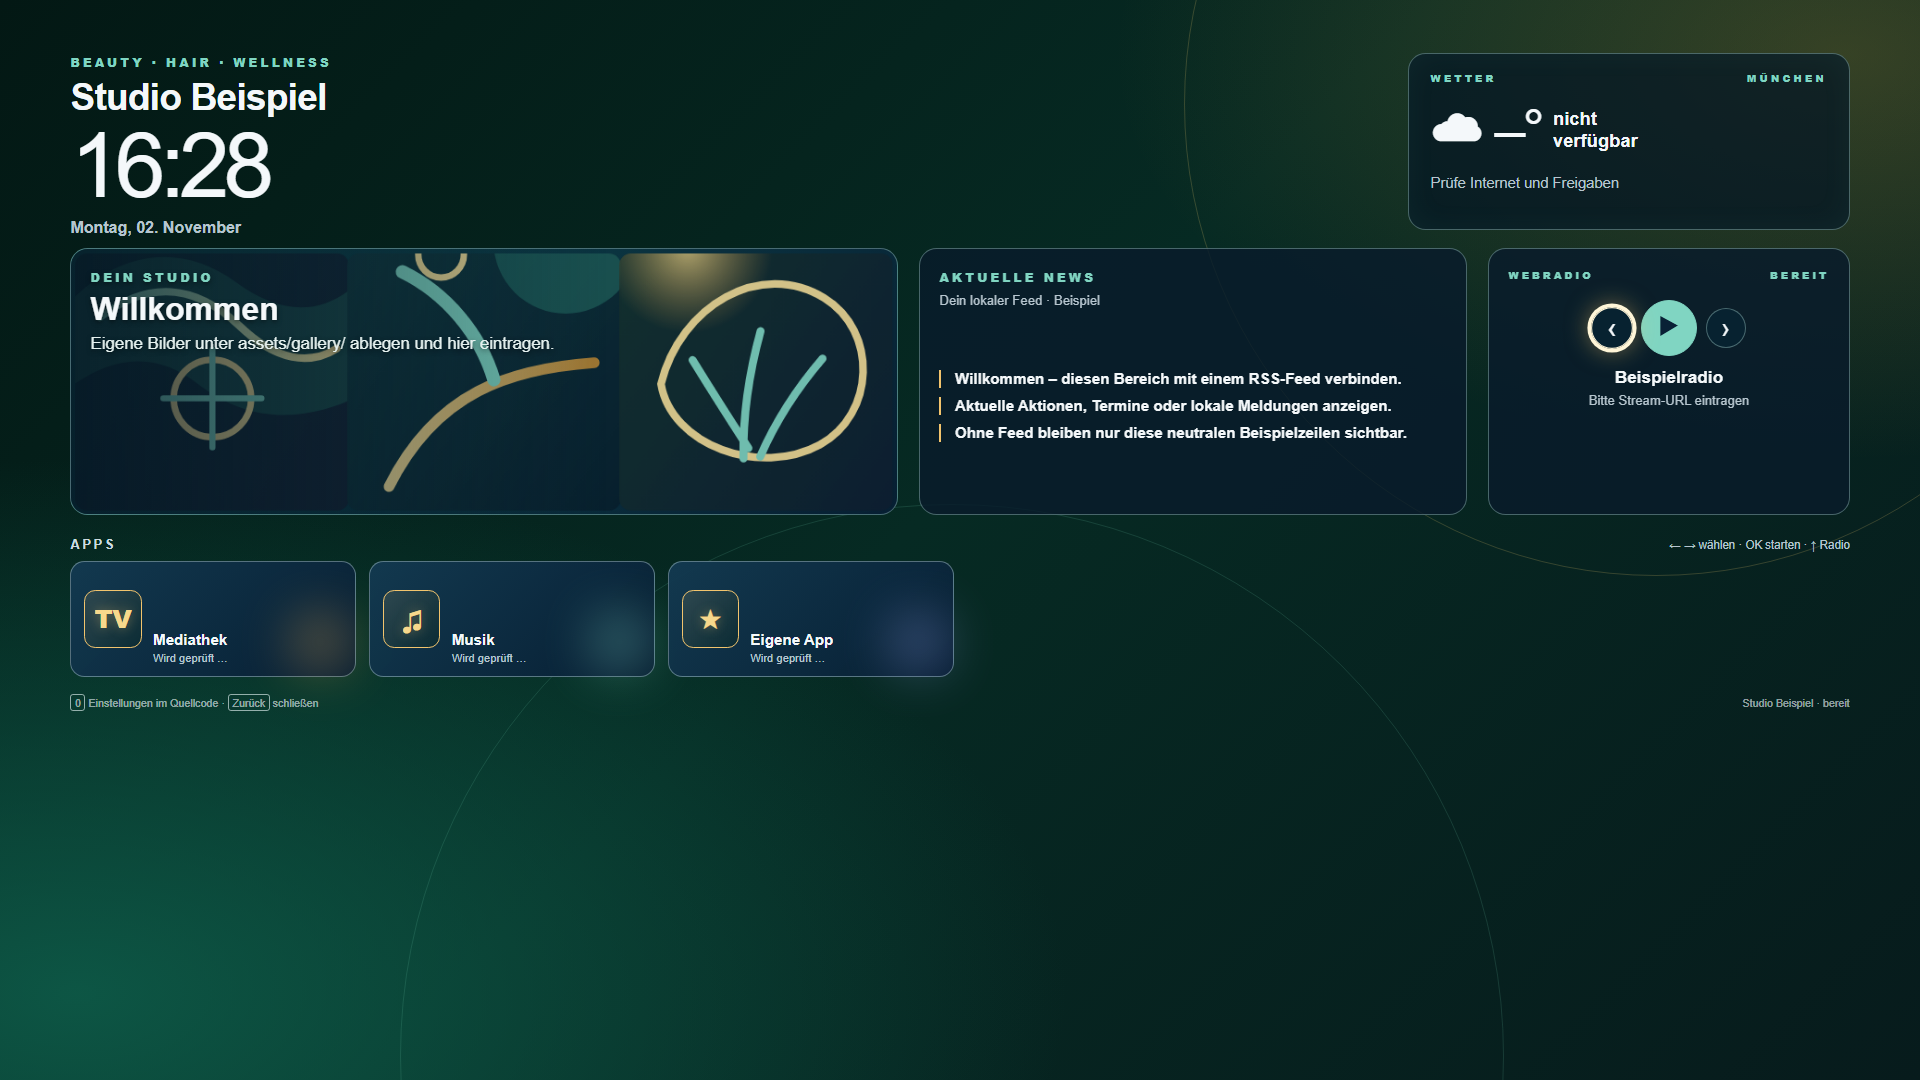
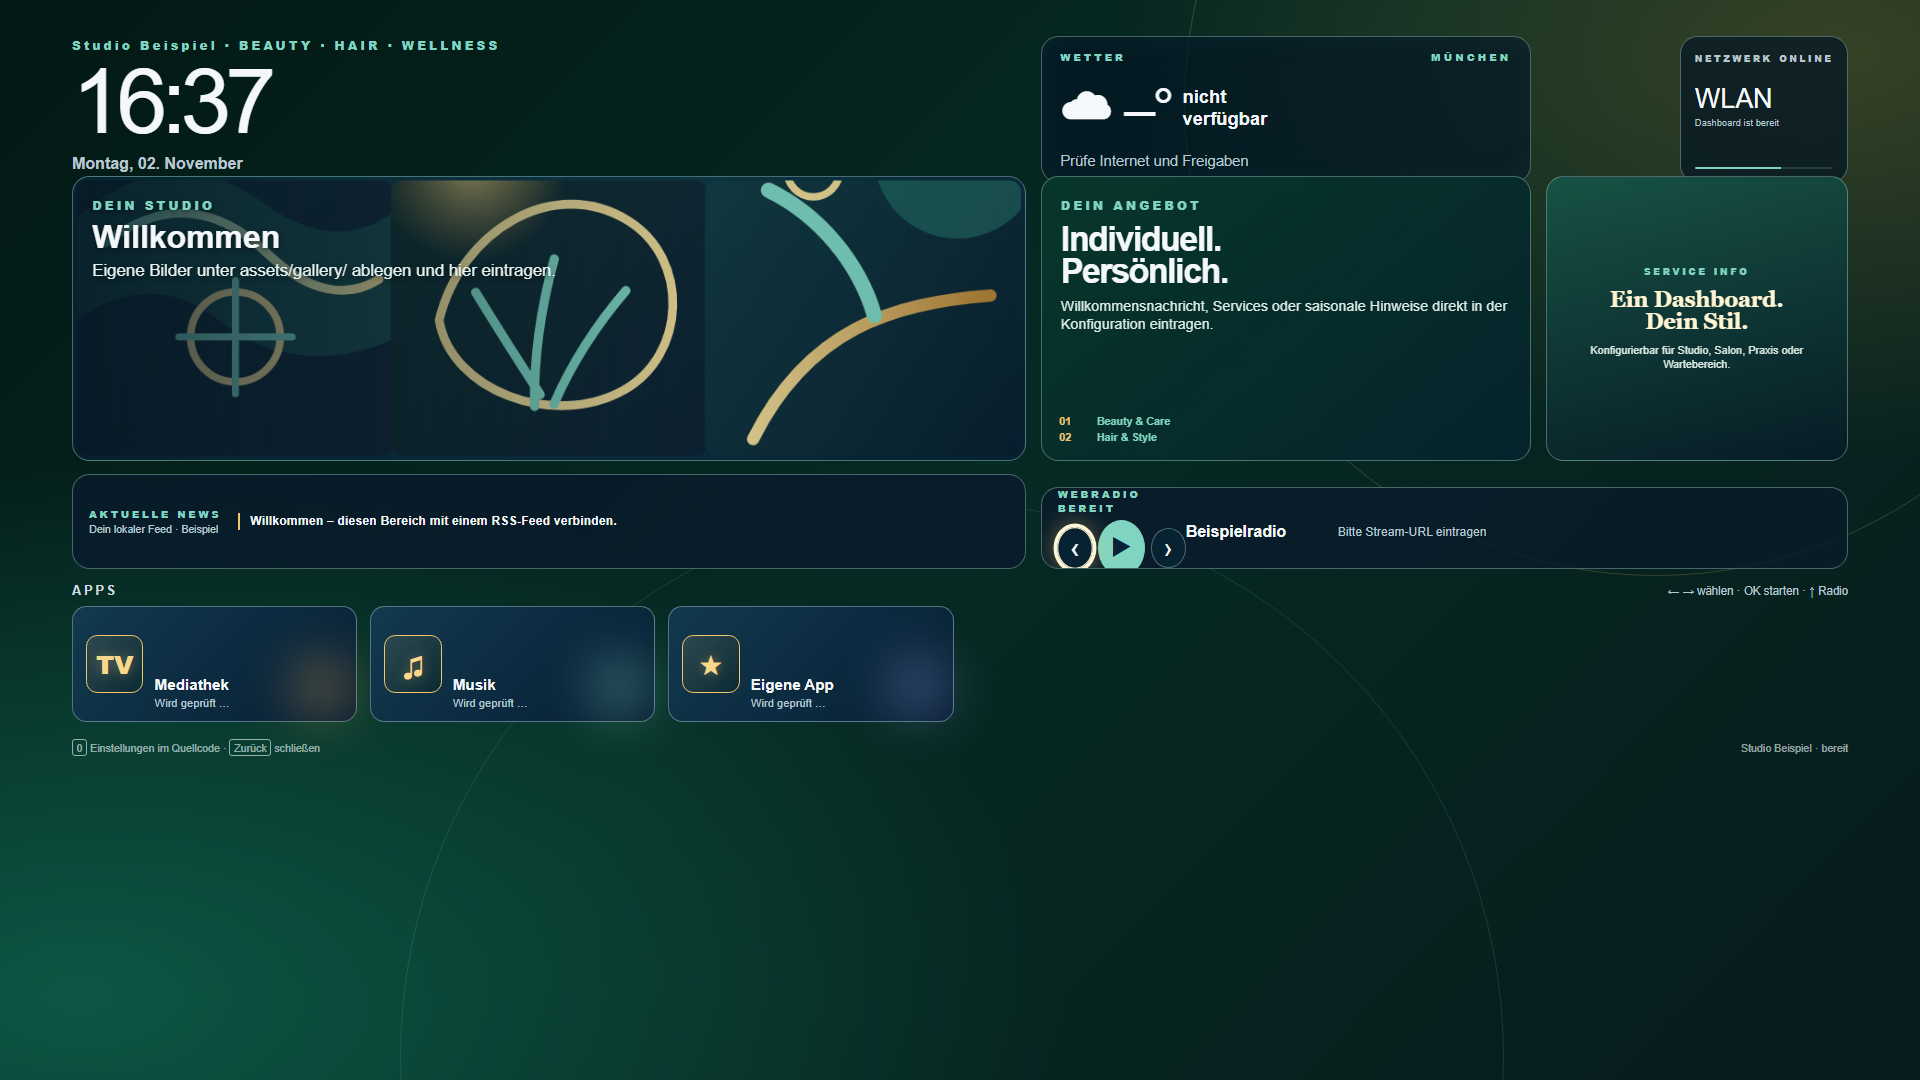
Align demo preview with dashboard composition

diff --git a/css/dashboard.css b/css/dashboard.css
@@ -4,28 +4,30 @@ html, body { width: 100%; height: 100%; margin: 0; overflow: hidden; }
 body { background: #06111d; color: var(--ink); font-family: Arial, Helvetica, sans-serif; }
 body[data-theme="golden-night"] { background: #06110f; }
 button { color: inherit; font: inherit; }
-.dashboard { position: relative; width: 120rem; min-height: 67.5rem; padding: 3.3rem 4.4rem 2rem; overflow: hidden; background: radial-gradient(circle at 15% 0%, #174e61 0, transparent 31%), linear-gradient(135deg, #081a2c 0%, #071d31 54%, #102e39 100%); }
+.dashboard { position: relative; width: 120rem; min-height: 67.5rem; padding: 2.25rem 4.5rem 1.7rem; overflow: hidden; background: radial-gradient(circle at 15% 0%, #174e61 0, transparent 31%), linear-gradient(135deg, #081a2c 0%, #071d31 54%, #102e39 100%); }
 body[data-theme="golden-night"] .dashboard { background: radial-gradient(ellipse at 4% 92%, rgba(15, 98, 78, .8) 0, transparent 38%), radial-gradient(ellipse at 96% 5%, rgba(191, 146, 49, .26) 0, transparent 28%), linear-gradient(135deg, #031814 0%, #062a23 48%, #071b1c 100%); }
 .background-orb { position: absolute; border: .08rem solid rgba(128, 213, 194, .18); border-radius: 50%; opacity: .72; pointer-events: none; }
 .background-orb--one { top: -23rem; right: -13rem; width: 59rem; height: 59rem; }
 .background-orb--two { bottom: -33rem; left: 25rem; width: 69rem; height: 69rem; border-color: rgba(242, 196, 109, .12); }
 body[data-theme="golden-night"] .background-orb--one { border-color: rgba(244, 205, 111, .28); }
 body[data-theme="golden-night"] .background-orb--two { border-color: rgba(114, 208, 178, .22); }
-.hero, .overview, .launch-section, footer { position: relative; z-index: 1; }
-.hero { display: flex; min-height: 12.2rem; align-items: flex-start; justify-content: space-between; }
+.hero, .showcase, .news-radio-row, .launch-section, footer { position: relative; z-index: 1; }
+.hero { display: flex; height: 8.72rem; align-items: flex-start; justify-content: space-between; }
 .eyebrow { margin: 0; color: var(--accent); font-size: .78rem; font-weight: 800; letter-spacing: .18rem; }
-h1 { margin: .36rem 0 0; font-size: 2.3rem; font-weight: 700; letter-spacing: -.04rem; }
+.brand-line { margin: 0; color: var(--accent); font-size: .78rem; font-weight: 800; letter-spacing: .18rem; }
 .clock { margin: .55rem 0 0; font-size: 5.7rem; font-weight: 300; letter-spacing: -.38rem; line-height: .85; }
 .date { margin: .9rem 0 0; color: var(--muted); font-size: 1rem; font-weight: 600; }
-.weather-card { width: 27.6rem; min-height: 11.1rem; padding: 1.1rem 1.35rem; border: .08rem solid var(--line); border-radius: 1.1rem; background: rgba(4, 22, 36, .72); box-shadow: inset 0 0 2rem rgba(116, 220, 201, .05); }
+.status-strip { display: grid; width: 45.45%; grid-template-columns: .73fr .18fr .25fr; align-items: stretch; gap: .9rem; }
+.weather-card { width: auto; min-height: 8.08rem; padding: .82rem 1.15rem; border: .08rem solid var(--line); border-radius: 1.1rem; background: rgba(4, 22, 36, .72); box-shadow: inset 0 0 2rem rgba(116, 220, 201, .05); }
 .weather-card .eyebrow { display: flex; justify-content: space-between; font-size: .65rem; }
 .weather-main { display: flex; align-items: center; gap: .7rem; margin-top: .45rem; }
 .weather-icon { width: 3.3rem; font-size: 3.5rem; text-align: center; }
 .weather-main strong { font-size: 3.5rem; font-weight: 400; letter-spacing: -.2rem; }
 .weather-main span:last-child { max-width: 8rem; color: var(--ink); font-size: 1.15rem; font-weight: 700; }
 .weather-card > p:last-child { margin: .5rem 0 0; color: var(--muted); font-size: .92rem; }
-.overview { display: grid; grid-template-columns: 1.42fr .94fr .62fr; gap: 1.35rem; height: 16.7rem; }
-.gallery-card, .news-card, .radio-card { position: relative; overflow: hidden; padding: 1.2rem; border: .08rem solid var(--line); border-radius: 1.1rem; background: var(--panel); }
+.network-card { display: flex; width: auto; grid-column: 3; flex-direction: column; padding: .82rem .85rem; border: .08rem solid var(--line); border-radius: 1.1rem; background: rgba(4, 22, 36, .72); }.network-card .eyebrow { display: flex; justify-content: space-between; font-size: .54rem; }.network-card strong { margin-top: .62rem; font-size: 1.68rem; font-weight: 400; }.network-card p { margin: .14rem 0 .55rem; color: var(--muted); font-size: .59rem; }.network-card i { display: block; width: 100%; height: .14rem; margin-top: auto; border-radius: 1rem; background: linear-gradient(90deg, var(--accent) 62%, rgba(128,213,194,.18) 62%); }
+.showcase { display: grid; grid-template-columns: 1.42fr .73fr .45fr; gap: .9rem; height: 17.85rem; }
+.gallery-card, .service-card, .feature-card, .news-card, .radio-card { position: relative; overflow: hidden; padding: 1.2rem; border: .08rem solid var(--line); border-radius: 1.1rem; background: var(--panel); }
 .gallery-card { background: linear-gradient(135deg, rgba(16, 75, 81, .92), rgba(7, 31, 52, .94)); }
 .gallery-images { position: absolute; inset: .55rem; display: flex; gap: .5rem; }
 .gallery-images img { width: 0; min-width: 0; flex: 1; border-radius: .7rem; object-fit: cover; opacity: .86; animation: gallery-zoom 12s ease-out both; }
@@ -33,13 +35,14 @@ h1 { margin: .36rem 0 0; font-size: 2.3rem; font-weight: 700; letter-spacing: -.
 .gallery-card::after { position: absolute; inset: 0; background: linear-gradient(90deg, rgba(4, 20, 33, .72), transparent 65%); content: ""; pointer-events: none; }
 .gallery-copy { position: relative; z-index: 1; max-width: 65%; text-shadow: 0 .1rem .3rem rgba(0,0,0,.5); }
 .gallery-copy h2 { margin: .45rem 0; font-size: 2rem; line-height: 1; }.gallery-copy p:last-child { margin: 0; color: #e6f2f0; font-size: 1.05rem; line-height: 1.28; }
-.news-card { display: flex; flex-direction: column; }.muted { margin: .4rem 0; color: var(--muted); font-size: .82rem; }
-#news-list { display: flex; height: 100%; flex-direction: column; justify-content: center; gap: .55rem; margin: .2rem 0 0; padding: 0; list-style: none; }
-#news-list li { overflow: hidden; padding-left: .85rem; border-left: .18rem solid var(--accent-warm); font-size: .95rem; font-weight: 650; line-height: 1.2; text-overflow: ellipsis; white-space: nowrap; }
-.radio-card { display: flex; flex-direction: column; align-items: center; text-align: center; }.radio-card .eyebrow { width: 100%; display: flex; justify-content: space-between; font-size: .64rem; }.radio-controls { display: flex; align-items: center; gap: .55rem; margin: 1.1rem 0 .7rem; }
+.service-card { background: linear-gradient(140deg, rgba(7, 55, 43, .97), rgba(6, 35, 45, .94)); }.service-card h2 { margin: .62rem 0; font-size: 2.1rem; line-height: .95; letter-spacing: -.08rem; }.service-card > p:not(.eyebrow) { margin: .2rem 0; color: #dfede8; font-size: .9rem; line-height: 1.25; }.service-card > div { position: absolute; right: 1.1rem; bottom: 1.1rem; left: 1.1rem; display: grid; grid-template-columns: 1.8rem 1fr; gap: .22rem .55rem; color: var(--accent); font-size: .67rem; font-weight: 700; }.service-card > div span:nth-child(odd) { color: var(--accent-warm); }
+.feature-card { display: flex; flex-direction: column; justify-content: center; background: linear-gradient(165deg, rgba(23, 83, 70, .96), rgba(7, 28, 38, .98)); text-align: center; }.feature-card .eyebrow { font-size: .56rem; }.feature-card strong { margin: .65rem 0 .7rem; color: #fff5d3; font-family: Georgia, serif; font-size: 1.35rem; line-height: 1.03; }.feature-card span { color: #d8e8e0; font-size: .68rem; line-height: 1.25; }
+.news-radio-row { display: grid; grid-template-columns: 1.42fr .73fr .45fr; gap: .9rem; height: 5.95rem; margin-top: .8rem; }.news-card { display: grid; grid-column: 1; grid-template-columns: 9.3rem 1fr; align-items: center; padding: .78rem 1rem; }.news-card .eyebrow { align-self: end; font-size: .62rem; }.muted { align-self: start; margin: .1rem 0; color: var(--muted); font-size: .66rem; }
+#news-list { grid-column: 2; grid-row: 1 / span 2; margin: 0; padding: 0; list-style: none; }#news-list li { overflow: hidden; padding-left: .65rem; border-left: .16rem solid var(--accent-warm); font-size: .78rem; font-weight: 650; line-height: 1.35; text-overflow: ellipsis; white-space: nowrap; }#news-list li:not(:first-child) { display: none; }
+.radio-card { display: grid; grid-column: 2 / 4; grid-template-columns: 8rem 9.5rem 1fr; align-items: center; margin-top: .8rem; padding: .75rem 1rem; text-align: left; }.radio-card .eyebrow { grid-column: 1; grid-row: 1; align-self: start; font-size: .62rem; }.radio-controls { grid-column: 1; grid-row: 2; display: flex; align-items: center; gap: .38rem; margin: .35rem 0 0; }
 .round-button { width: 2.5rem; height: 2.5rem; border: .08rem solid var(--line); border-radius: 50%; background: rgba(8, 36, 50, .9); cursor: pointer; font-size: 1.65rem; line-height: 1; }.round-button--main { width: 3.5rem; height: 3.5rem; border-color: var(--accent); background: var(--accent); color: #092136; font-size: 1.55rem; }
-.radio-card strong { font-size: 1.08rem; }.radio-card > span { margin-top: .3rem; color: var(--muted); font-size: .82rem; }.radio-card.is-playing .round-button--main { box-shadow: 0 0 1.3rem rgba(128,213,194,.6); }
-.launch-section { margin-top: 1.35rem; }.section-heading { display: flex; align-items: baseline; justify-content: space-between; margin-bottom: .55rem; }.section-heading h2 { margin: 0; color: #cddce1; font-size: .84rem; letter-spacing: .14rem; }.section-heading p { margin: 0; color: var(--muted); font-size: .72rem; }
+.radio-card strong { grid-column: 2; grid-row: 1 / span 2; font-size: 1rem; }.radio-card > span { grid-column: 3; grid-row: 1 / span 2; color: var(--muted); font-size: .76rem; }.radio-card.is-playing .round-button--main { box-shadow: 0 0 1.3rem rgba(128,213,194,.6); }
+.launch-section { margin-top: .9rem; }.section-heading { display: flex; align-items: baseline; justify-content: space-between; margin-bottom: .45rem; }.section-heading h2 { margin: 0; color: #cddce1; font-size: .84rem; letter-spacing: .14rem; }.section-heading p { margin: 0; color: var(--muted); font-size: .72rem; }
 .tile-grid { display: grid; grid-template-columns: repeat(6, minmax(0, 1fr)); gap: .8rem; }.tile-grid--sources { grid-template-columns: repeat(3, minmax(0, 1fr)); }
 .tile { position: relative; display: flex; min-height: 7.3rem; padding: .8rem; border: .08rem solid rgba(194, 221, 223, .42); border-radius: .9rem; background: linear-gradient(135deg, rgba(19, 58, 81, .96), rgba(7, 30, 51, .98)); cursor: pointer; text-align: left; transition: transform 150ms ease, border-color 150ms ease, box-shadow 150ms ease; }.tile::after { position: absolute; right: .55rem; bottom: .55rem; width: 3.2rem; height: 3.2rem; border-radius: 50%; background: var(--tile-accent); content: ""; filter: blur(1.7rem); opacity: .52; }
 .tile__symbol { position: relative; z-index: 1; display: grid; width: 3.6rem; height: 3.6rem; place-items: center; align-self: center; border: .09rem solid currentColor; border-radius: .7rem; color: var(--tile-accent); font-size: 1.55rem; font-weight: 800; }.tile__copy { position: relative; z-index: 1; display: flex; min-width: 0; flex: 1; flex-direction: column; justify-content: flex-end; margin-left: .7rem; }.tile__name { overflow: hidden; font-size: .95rem; font-weight: 750; text-overflow: ellipsis; white-space: nowrap; }.tile__detail { margin-top: .2rem; color: var(--muted); font-size: .7rem; }.tile__detail--ready { color: var(--accent); }

diff --git a/index.html b/index.html
@@ -13,27 +13,33 @@
         <div class="background-orb background-orb--two" aria-hidden="true"></div>
         <header class="hero">
             <section>
-                <p id="brand-subtitle" class="eyebrow">SERVICE DASHBOARD</p>
-                <h1 id="business-name">Studio Beispiel</h1>
+                <p class="brand-line"><span id="business-name">Studio Beispiel</span><span aria-hidden="true"> · </span><span id="brand-subtitle">Beauty · Hair · Wellness</span></p>
                 <p id="clock" class="clock">--:--</p>
                 <p id="clock-date" class="date">–</p>
             </section>
-            <section id="weather-card" class="weather-card" aria-live="polite">
-                <p class="eyebrow">WETTER <span id="weather-location">–</span></p>
-                <div class="weather-main"><span id="weather-icon" class="weather-icon">☀</span><strong id="weather-temp">–°</strong><span id="weather-description">wird geladen</span></div>
-                <p id="weather-detail">–</p>
+            <section class="status-strip" aria-label="Statusinformationen">
+                <article id="weather-card" class="weather-card" aria-live="polite">
+                    <p class="eyebrow">WETTER <span id="weather-location">–</span></p>
+                    <div class="weather-main"><span id="weather-icon" class="weather-icon">☀</span><strong id="weather-temp">–°</strong><span id="weather-description">wird geladen</span></div>
+                    <p id="weather-detail">–</p>
+                </article>
+                <article class="network-card"><p class="eyebrow">NETZWERK <span>ONLINE</span></p><strong>WLAN</strong><p>Dashboard ist bereit</p><i aria-hidden="true"></i></article>
             </section>
         </header>
 
-        <section class="overview" aria-label="Informationen">
+        <section class="showcase" aria-label="Informationen">
             <article class="gallery-card"><div id="gallery-images" class="gallery-images"></div><div class="gallery-copy"><p class="eyebrow">DEIN STUDIO</p><h2 id="gallery-title">Willkommen</h2><p id="gallery-subtitle">–</p></div></article>
+            <article class="service-card"><p class="eyebrow">DEIN ANGEBOT</p><h2>Individuell.<br>Persönlich.</h2><p>Willkommensnachricht, Services oder saisonale Hinweise direkt in der Konfiguration eintragen.</p><div><span>01</span><span>Beauty &amp; Care</span><span>02</span><span>Hair &amp; Style</span></div></article>
+            <article class="feature-card"><p class="eyebrow">SERVICE INFO</p><strong>Ein Dashboard.<br>Dein Stil.</strong><span>Konfigurierbar für Studio, Salon, Praxis oder Wartebereich.</span></article>
+        </section>
+        <div class="news-radio-row">
             <article class="news-card"><p class="eyebrow" id="news-title">AKTUELLE NEWS</p><p id="news-source" class="muted">–</p><ol id="news-list"><li>Feed wird vorbereitet …</li></ol></article>
             <article id="radio-card" class="radio-card" aria-label="Webradio">
                 <p class="eyebrow">WEBRADIO <span id="radio-state">BEREIT</span></p>
                 <div class="radio-controls"><button id="radio-prev" class="round-button" type="button" aria-label="Vorheriger Sender">‹</button><button id="radio-toggle" class="round-button round-button--main" type="button" aria-label="Radio starten">▶</button><button id="radio-next" class="round-button" type="button" aria-label="Nächster Sender">›</button></div>
                 <strong id="radio-name">Kein Sender konfiguriert</strong><span id="radio-detail">–</span>
             </article>
-        </section>
+        </div>
 
         <section class="launch-section" aria-label="Apps"><div class="section-heading"><h2>APPS</h2><p>← → wählen · OK starten · ↑ Radio</p></div><div id="apps-grid" class="tile-grid" role="grid"></div></section>
         <section id="sources-section" class="launch-section" aria-label="Eingänge"><div class="section-heading"><h2>EINGÄNGE</h2><p>Verbundene HDMI-Quellen</p></div><div id="sources-grid" class="tile-grid tile-grid--sources" role="grid"></div></section>
